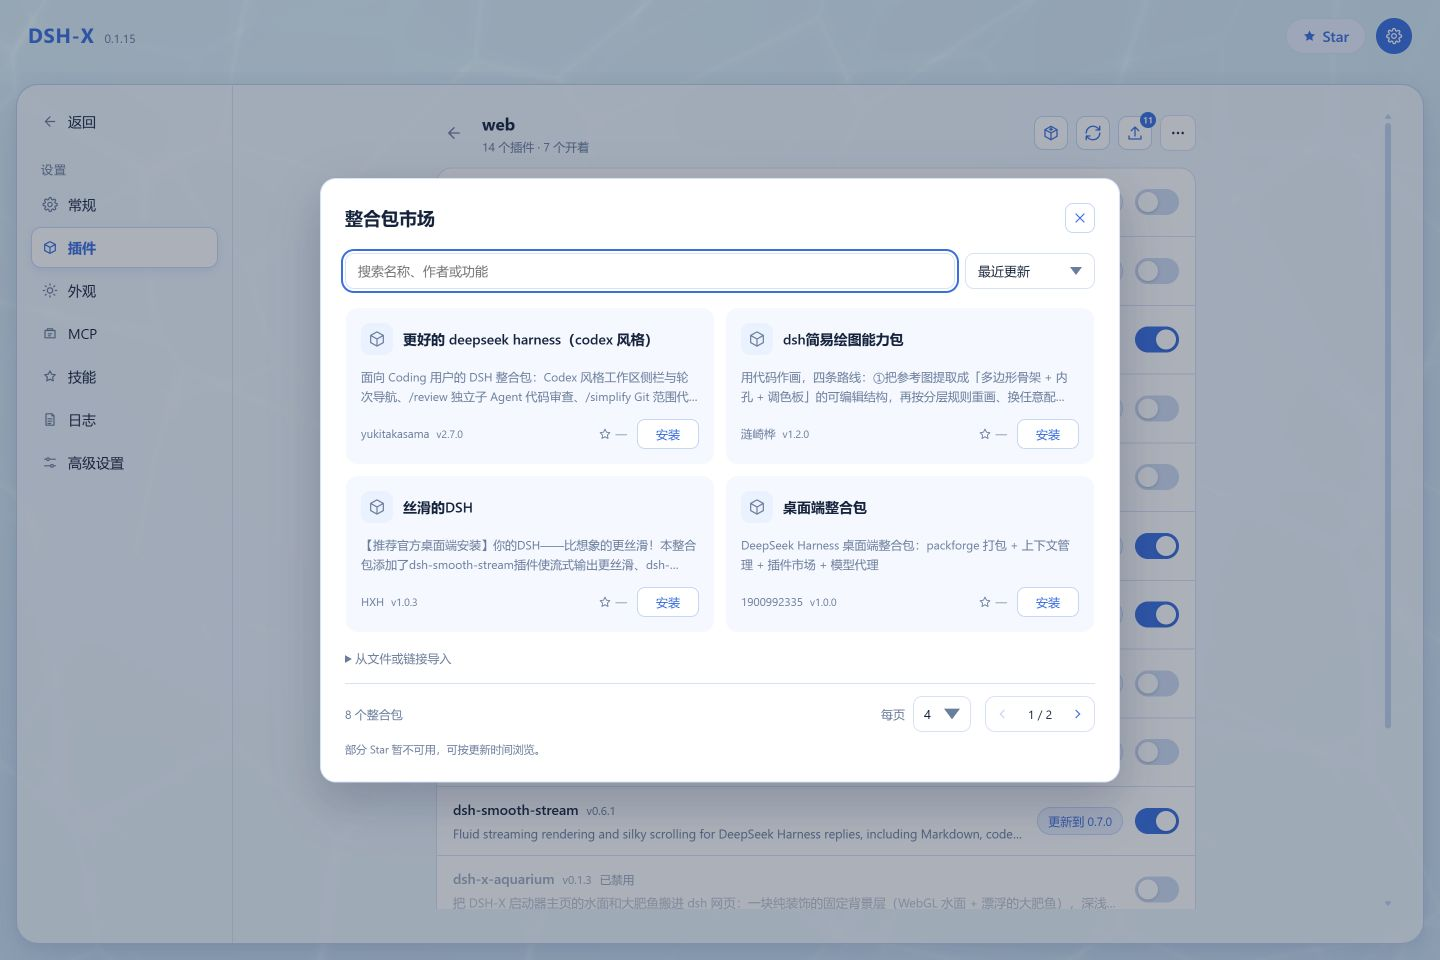
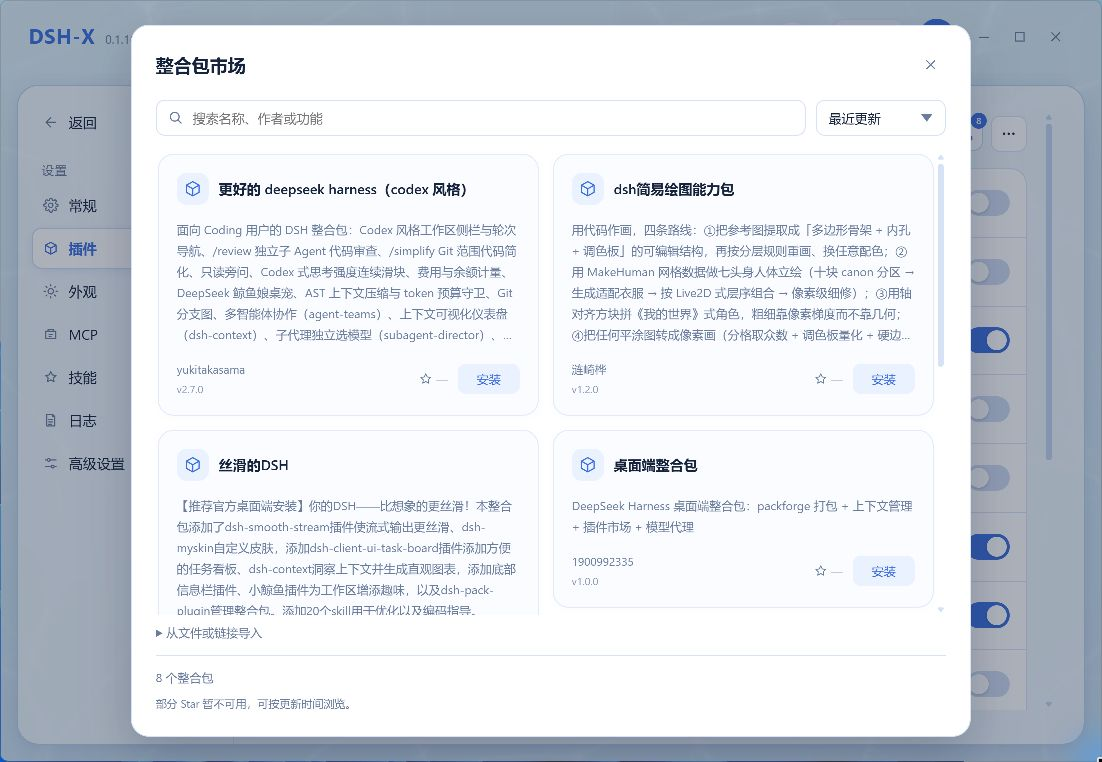
补齐深色截图并同步更新中英文界面预览

diff --git a/README.en.md b/README.en.md
@@ -49,14 +49,37 @@ The [recommended pack recipe](packs/dsh-x-recommended/manifest.json) includes co
   <img src="docs/screenshot-launches.png" alt="DSH-X v0.1.16 with multiple launch entries" width="820" />
 </p>
 
-**Multiple tabs · Dark theme**
+<details>
+<summary>Dark theme: management pages (expand to view)</summary>
+
+**Environments**
 
 <p align="center">
-  <img src="docs/screenshot-tabs.png" alt="DSH-X v0.1.16 with multiple tabs" width="820" />
+  <img src="docs/screenshot-profiles-dark-en.jpg" alt="DSH-X v0.1.16 dark environments" width="820" />
 </p>
 
+**Plugin management**
+
+<p align="center">
+  <img src="docs/screenshot-plugins-dark-en.jpg" alt="DSH-X v0.1.16 dark plugin management" width="820" />
+</p>
+
+**Modpack market**
+
+<p align="center">
+  <img src="docs/screenshot-market-dark-en.jpg" alt="DSH-X v0.1.16 dark modpack market" width="820" />
+</p>
+
+**General settings**
+
+<p align="center">
+  <img src="docs/screenshot-settings-dark-en.jpg" alt="DSH-X v0.1.16 dark general settings" width="820" />
+</p>
+
+</details>
+
 <details>
-<summary>Light theme and management pages (expand to view)</summary>
+<summary>Light theme: home and management pages (expand to view)</summary>
 
 **Launcher home**
 
@@ -89,6 +112,12 @@ The [recommended pack recipe](packs/dsh-x-recommended/manifest.json) includes co
 </p>
 
 </details>
+
+**Multiple tabs · Dark theme**
+
+<p align="center">
+  <img src="docs/screenshot-tabs.png" alt="DSH-X v0.1.16 with multiple tabs" width="820" />
+</p>
 
 ## Wallpaper
 

diff --git a/README.md b/README.md
@@ -49,14 +49,37 @@ DeepSeek Harness 轻量桌面启动器：启动项与多实例，版本、插件
   <img src="docs/screenshot-launches.png" alt="DSH-X v0.1.16 多启动项主页" width="820" />
 </p>
 
-**多标签页 · 深色主题**
+<details>
+<summary>深色主题：管理界面（展开查看）</summary>
+
+**环境列表**
 
 <p align="center">
-  <img src="docs/screenshot-tabs.png" alt="DSH-X v0.1.16 多标签页界面" width="820" />
+  <img src="docs/screenshot-profiles-dark.jpg" alt="DSH-X v0.1.16 深色环境列表" width="820" />
 </p>
 
+**插件管理**
+
+<p align="center">
+  <img src="docs/screenshot-plugins-dark.jpg" alt="DSH-X v0.1.16 深色插件管理" width="820" />
+</p>
+
+**整合包市场**
+
+<p align="center">
+  <img src="docs/screenshot-market-dark.jpg" alt="DSH-X v0.1.16 深色整合包市场" width="820" />
+</p>
+
+**常规设置**
+
+<p align="center">
+  <img src="docs/screenshot-settings-dark.jpg" alt="DSH-X v0.1.16 深色常规设置" width="820" />
+</p>
+
+</details>
+
 <details>
-<summary>浅色主题与管理界面（展开查看）</summary>
+<summary>浅色主题：主页与管理界面（展开查看）</summary>
 
 **启动器主页**
 
@@ -89,6 +112,12 @@ DeepSeek Harness 轻量桌面启动器：启动项与多实例，版本、插件
 </p>
 
 </details>
+
+**多标签页 · 深色主题**
+
+<p align="center">
+  <img src="docs/screenshot-tabs.png" alt="DSH-X v0.1.16 多标签页界面" width="820" />
+</p>
 
 ## 动态壁纸
 
